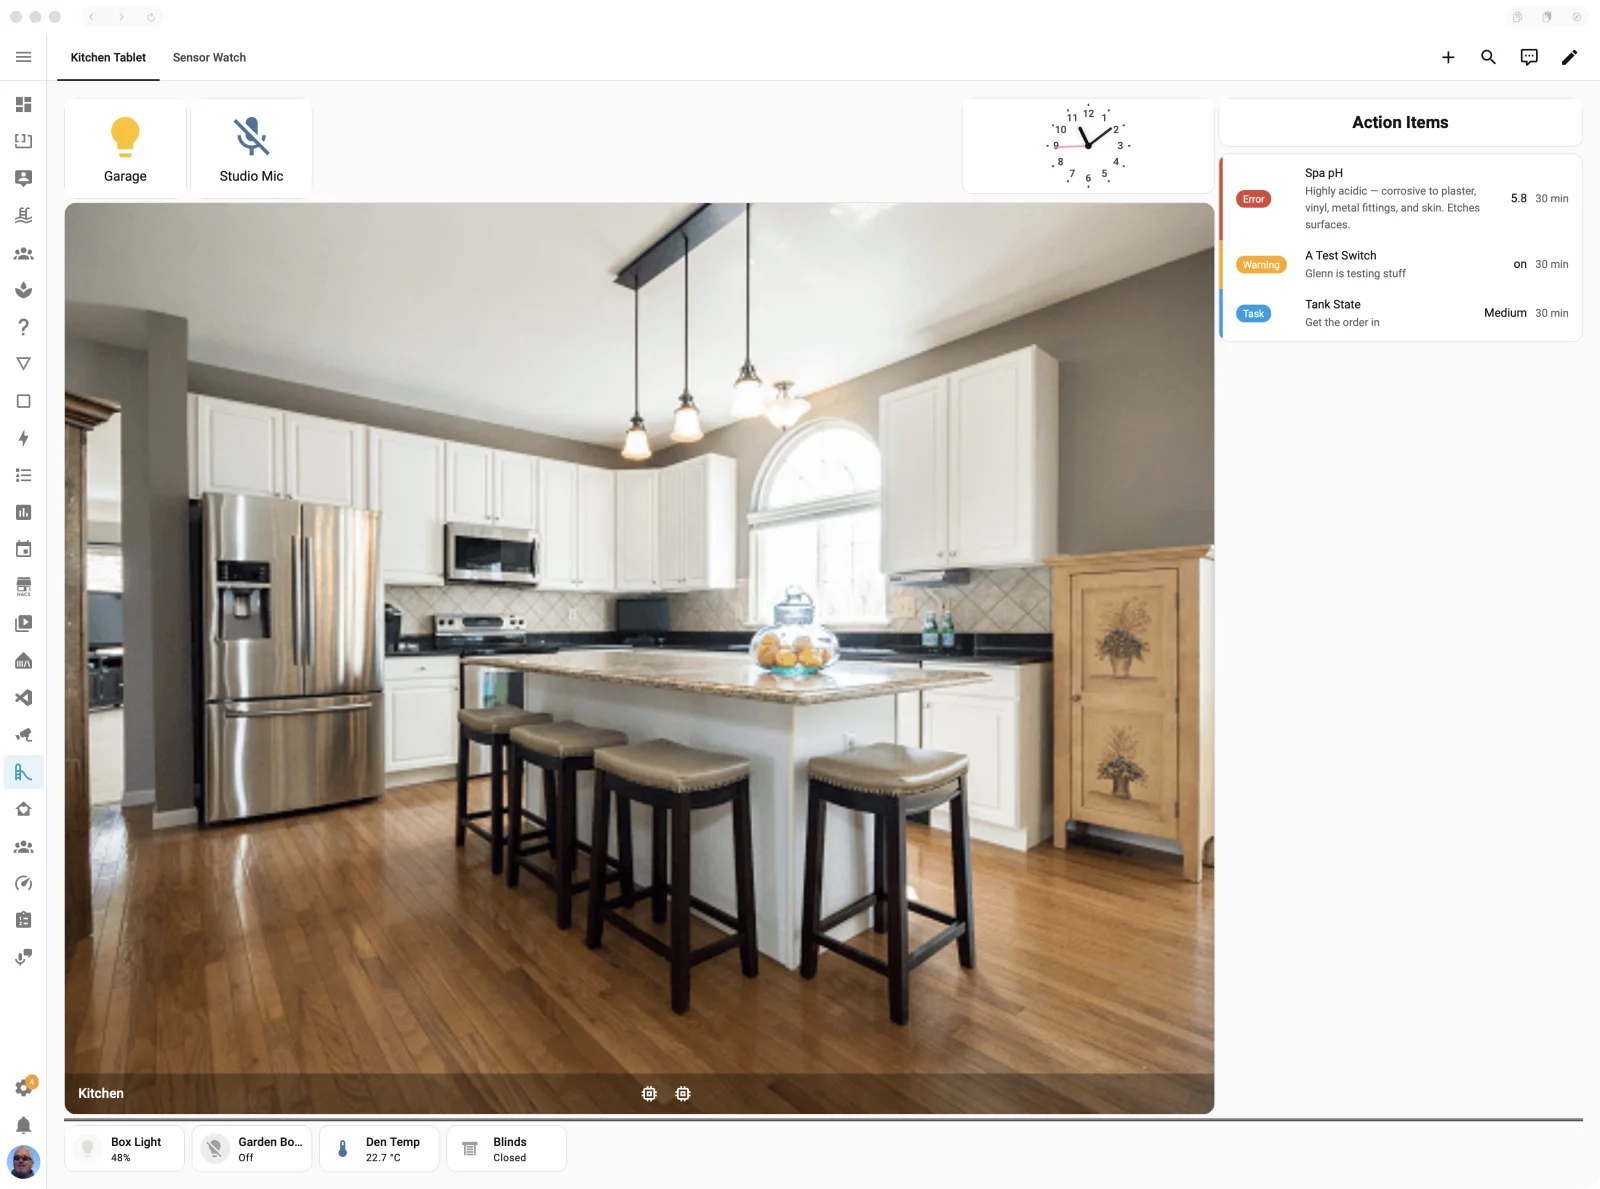
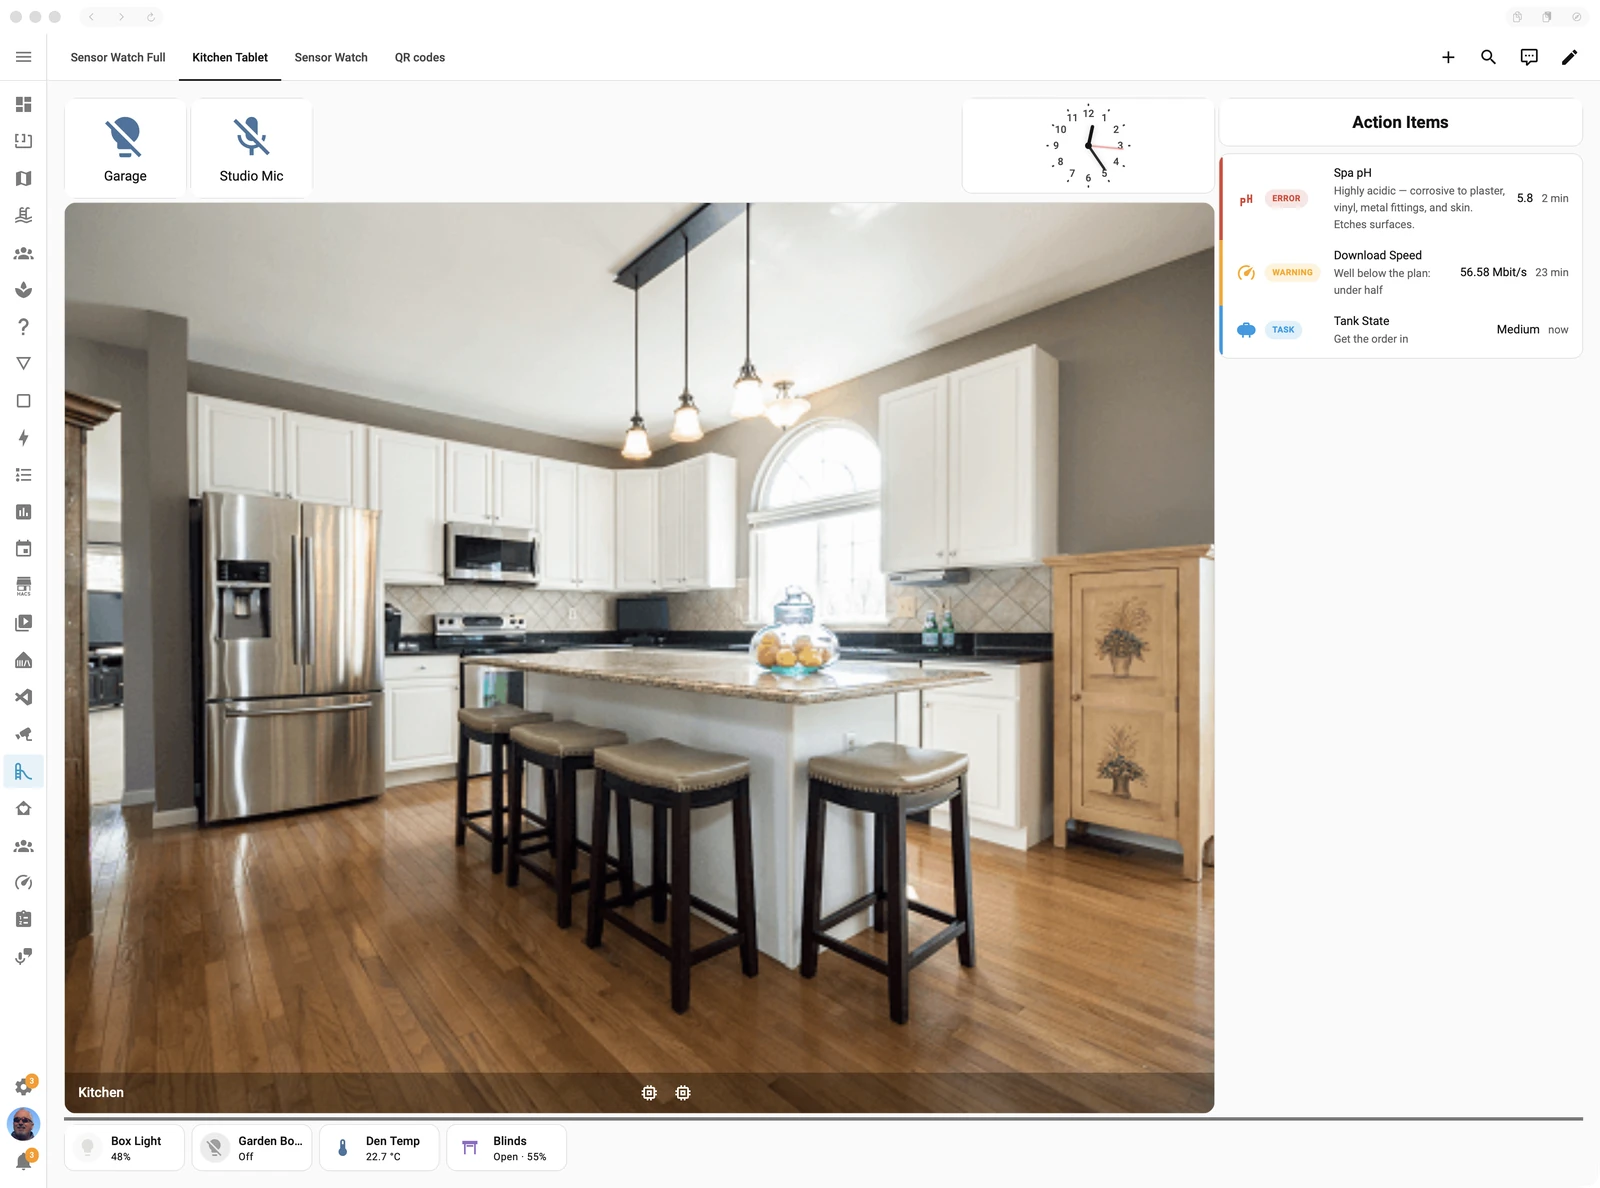
Sensor Watch: notifications give the value's unit; new screenshots
The event and the List service carry the sensor's unit (its own; days for
a date; none for an attribute), and the blueprint writes the value with
it: "(56.58 Mbit/s)", not "(56.58)". The guide gets a new editor shot (the
ladder and its nudge), a new card shot, and the Home Assistant app's
notifications in place of "coming soon".

diff --git a/integration/custom_components/casa_mia/sensor_watch/watch.py b/integration/custom_components/casa_mia/sensor_watch/watch.py
@@ -352,6 +352,7 @@ class Watcher:
         previous = before.get("level")
         precision = self._precision(eid, record)
         value = displayed(reading(record, state, dt_util.now()), precision)
+        unit = _unit(record, state)
         if since is None:
             since = state.last_changed if initial and state else dt_util.utcnow()
         # Worse on its own: the ladder starts again from this level's time, but what's
@@ -370,6 +371,7 @@ class Watcher:
             "name": name,
             # So the app rounds the live values it shows as this one is (live.py).
             **({"precision": precision} if precision is not None else {}),
+            **({"unit": unit} if unit else {}),
             **({"attribute": record["attribute"]} if record.get("attribute") else {}),
             **({"days_until": True} if record.get("days_until") else {}),
         }
@@ -528,6 +530,7 @@ class Watcher:
                     "previous": previous,
                     "value": row["value"],
                     "precision": row.get("precision"),  # its value's, as HA shows it
+                    "unit": row.get("unit"),
                     "message": row["message"],
                     "group": (self.records.get(eid) or {}).get("group"),
                     "area": self._area(eid),
@@ -598,3 +601,14 @@ class Watcher:
 def _real(row: dict[str, Any]) -> str:
     """The level a row's reading gives (an escalated row shows another)."""
     return row.get("real") or row["level"]
+
+
+def _unit(record: dict[str, Any], state: State | None) -> str | None:
+    """The unit its value is in, to say beside it ("56.58 Mbit/s"): days for a date's
+    days until it; its own unit for its state; none for an attribute, whose unit Home
+    Assistant doesn't state."""
+    if record.get("days_until"):
+        return "days"
+    if record.get("attribute") or state is None:
+        return None
+    return state.attributes.get("unit_of_measurement") or None

diff --git a/docs/applets/sensor-watch.md b/docs/applets/sensor-watch.md
@@ -4,7 +4,7 @@ Tell it once what normal looks like, for every sensor in the house, and it tells
 
 > **Maturity: Alpha.** Does its job every day in the author's house, but hasn't been tried in many others. Expect rough edges and changes. ([The levels](../README.md#maturity))
 
-<img src="../screenshots/sensor-watch-card.webp" alt="A kitchen wall tablet: a camera picture in the middle and, in the side panel, the Sensor Watch card titled Action Items listing an error (Spa pH, highly acidic), a warning (a test switch) and a task (Tank State: get the order in)" width="800">
+<img src="../screenshots/sensor-watch-card.webp" alt="A kitchen wall tablet dashboard: a camera picture in the middle and, in the side panel, the Sensor Watch card titled Action Items listing an error (Spa pH, highly acidic), a warning (Download Speed, well below the plan) and a task (Tank State: get the order in), each with its icon in its level's colour, its value and how long it has stood" width="800">
 
 ## What it's for
 
@@ -285,7 +285,7 @@ hold-off first, so set it to 0 while trying a sensor out.
 
 ### Watch an entity
 
-<img src="../screenshots/sensor-watch-editor.webp" alt="Editing a plug's voltage watch: a month of hourly statistics drawn as a line over the coloured bands, the samples line, Follows set to UK mains voltage (current law) with 72 following, and the bands with their levels and messages" width="800">
+<img src="../screenshots/sensor-watch-editor.webp" alt="Editing a hot water temperature watch: a month of hourly statistics drawn as a line over the coloured bands, Levels from set to Its own, and the bands as a ladder: Warning above 55, Nominal 41 to 55 °C, Warning below 41, with Move too: Bands above +1 and Everything +1 offered under Nominal after its top edge was raised" width="800">
 
 Any entity can be watched: a sensor, but also an `input_number` you type a reading into
 (a pool's pH from a test strip), a `number`, a `switch` that should stay on, a `select`.
@@ -726,8 +726,8 @@ too, as `initial`.
 ### The event
 
 Each change of level (a worse one after its hold-off, or a step of its escalation) fires
-`casa_mia_sensor_watch`, with `entity_id`, `name`, `level`, `previous`, `value` and
-`message`; `group` (its group's name), `area` and `attribute` (the attribute watched)
+`casa_mia_sensor_watch`, with `entity_id`, `name`, `level`, `previous`, `value`,
+`unit` (its unit: none for an attribute, `days` for a date) and `message`; `group` (its group's name), `area` and `attribute` (the attribute watched)
 when it has them; and `escalated` (true when it's shown a level up for having stood),
 `real` (the level its reading gives) and `since` (when that level began).
 
@@ -750,11 +750,12 @@ sidebar again for it, but doesn't send it to a phone.
   its level changes and cleared when it's back.
 - **Say when it's back:** when it drops below the level again.
 - **Anything else:** more actions (a light, a speaker), with `title`, `text`, `name`,
-  `level`, `previous`, `value`, `message`, `area`, `group`, `entity_id`, `escalated`,
+  `level`, `previous`, `value`, `unit`, `reading` (the value with its unit), `message`,
+  `area`, `group`, `entity_id`, `escalated`,
   `real`, `since`, `initial` and `back` to use in them.
 
 Its title leads with the level as a word: for example "Critical: Plug 3 voltage", then
-"Mains far too low (198) · Barn · Mains voltage"; and "Back to nominal: Plug 3 voltage"
+"Mains far too low (198 V) · Barn · Mains voltage"; and "Back to nominal: Plug 3 voltage"
 when it's back.
 
 On a phone with the Home Assistant app (a `notify.mobile_app_…` action), each
@@ -775,7 +776,10 @@ blueprint itself, copy it under another name first.
 
 <img src="../screenshots/sensor-watch-blueprint.webp" alt="An automation from the Notify on Sensor Watch blueprint: at this level or worse (Warning chosen), only this group (Flood Lights, from a dropdown), the notify action, a Home Assistant notification and say when it's back switched on, and anything else" width="800">
 
-*A screenshot of these notifications is coming soon.*
+<img src="../screenshots/sensor-watch-notifications.webp" alt="The Home Assistant app's Notifications on a phone: Error: Spa pH, highly acidic (5.8), three minutes ago, and Warning: Download Speed, well below the plan (56.58), 22 minutes ago, each with Dismiss" width="300">
+
+*Also as a Home Assistant notification:* one per sensor, its level leading the title, in
+the app's Notifications.
 
 **By hand,** an automation on the event:
 

diff --git a/app/CHANGELOG.md b/app/CHANGELOG.md
@@ -1,5 +1,10 @@
 # Changelog
 
+## 2026.10.11-b29
+
+- Sensor Watch: a notification from the blueprint gives the value with its unit, "(56.58 Mbit/s)" rather than "(56.58)". The event and the List service carry the sensor's `unit` too: none for an attribute (Home Assistant doesn't state its unit), `days` for a date. The blueprint's file is replaced by itself on the next Home Assistant restart.
+- Docs: Sensor Watch's guide has a new editor screenshot (the ladder and its nudge), a new card screenshot, and the Home Assistant app's notifications in place of "coming soon".
+
 ## 2026.10.11-b28
 
 - Sensor Watch: How Sensor Watch works no longer says each sensor has a Status entity of its own. It's the Sensor Watch device's Status, counts and Problem entities that say how the house is.
